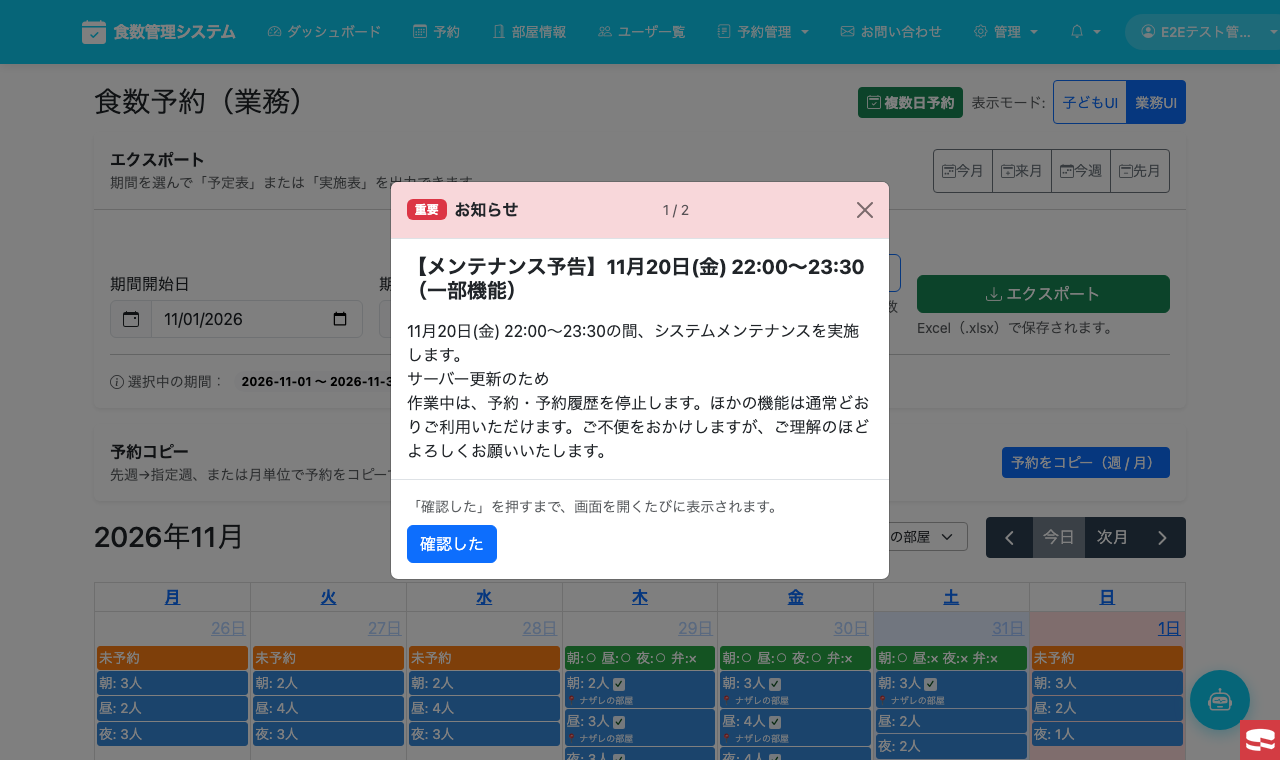
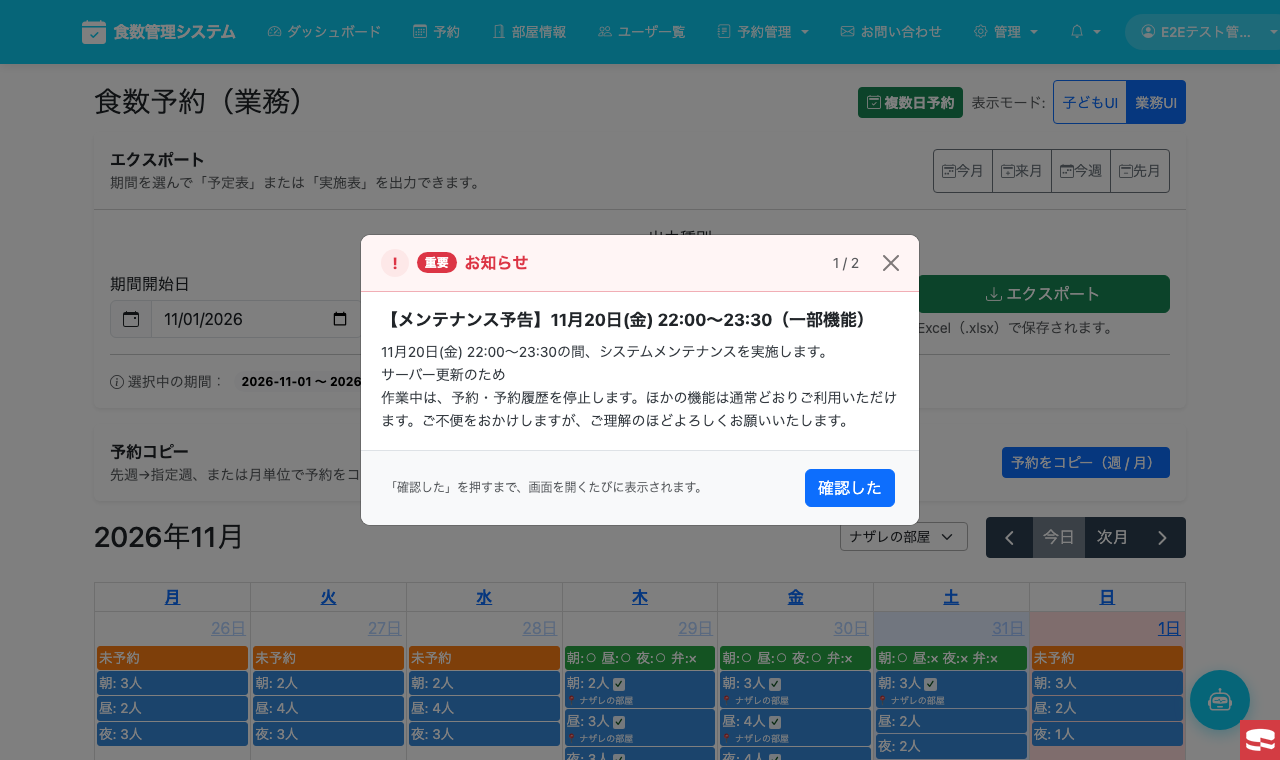
fix: お知らせのモーダルの見た目を画面イメージ（Figma）に合わせる
- 幅を560pxに、ヘッダーに「!」アイコンと赤みの背景、件数は右寄せ
- フッターは PC で注記を左・ボタンを右、スマホでボタンを全幅
- 本文・タイトルの大きさと行間を揃える
- PR 用のスクリーンショットを撮り直す

Refs #1013

Changed region(s): [[0.2812, 0.2421, 0.7188, 0.7868]]

diff --git a/src_web/kamaho-shokusu/templates/layout/default.php b/src_web/kamaho-shokusu/templates/layout/default.php
@@ -298,20 +298,38 @@ $recentNotifications     = $recentNotifications ?? [];
 
 <?php if ($user && !$isModal): ?>
 <?php /* お知らせのモーダル表示（i_modal=1 の掲載中のもの）。「確認した」を押すまで毎回出す。既読はブラウザごと */ ?>
+<style>
+    /* 画面イメージ（Figma #1013）に合わせた寸法・色 */
+    #noticeModal .modal-dialog { --bs-modal-width: 560px; }
+    #noticeModal .modal-content { border-radius: 10px; overflow: hidden; }
+    #noticeModal .modal-header { padding: 14px 20px; background: #fff5f5; border-bottom: 1px solid #f1aeb5; }
+    #noticeModal .notice-modal-icon { width: 28px; height: 28px; border-radius: 50%; background: #fde8e8; color: #dc3545; font-weight: 700; display: inline-flex; align-items: center; justify-content: center; }
+    #noticeModal .modal-body { padding: 18px 20px; }
+    #noticeModal #noticeModalTitle { font-size: 17px; font-weight: 700; margin-bottom: 10px; }
+    #noticeModal #noticeModalBody { font-size: 14px; line-height: 1.65; color: #343a40; white-space: pre-line; }
+    #noticeModal .modal-footer { padding: 14px 20px; background: #f8f9fa; justify-content: space-between; flex-wrap: nowrap; gap: 10px; }
+    #noticeModal .modal-footer small { font-size: 12px; }
+    @media (max-width: 575.98px) {
+        #noticeModal #noticeModalTitle { font-size: 15px; }
+        #noticeModal .modal-footer { flex-direction: column; align-items: stretch; }
+        #noticeModal .modal-footer .btn { width: 100%; }
+    }
+</style>
 <div class="modal fade" id="noticeModal" tabindex="-1" aria-labelledby="noticeModalTitle" aria-hidden="true" role="alertdialog" aria-modal="true">
     <div class="modal-dialog modal-dialog-centered">
         <div class="modal-content">
-            <div class="modal-header" id="noticeModalHeader">
-                <span class="badge text-bg-danger me-2 d-none" id="noticeModalHigh">重要</span>
-                <span class="fw-bold">お知らせ</span>
-                <span class="ms-auto me-3 small text-muted d-none" id="noticeModalCount"></span>
-                <button type="button" class="btn-close" data-bs-dismiss="modal" aria-label="閉じる"></button>
+            <div class="modal-header align-items-center gap-2" id="noticeModalHeader">
+                <span class="notice-modal-icon" aria-hidden="true">!</span>
+                <span class="badge rounded-pill text-bg-danger d-none" id="noticeModalHigh">重要</span>
+                <span class="fw-bold text-danger fs-6">お知らせ</span>
+                <span class="ms-auto small text-muted d-none" id="noticeModalCount"></span>
+                <button type="button" class="btn-close ms-2" data-bs-dismiss="modal" aria-label="閉じる"></button>
             </div>
             <div class="modal-body">
-                <h5 class="fw-bold mb-3" id="noticeModalTitle"></h5>
-                <div id="noticeModalBody" style="white-space:pre-line;"></div>
+                <h5 id="noticeModalTitle"></h5>
+                <div id="noticeModalBody"></div>
             </div>
-            <div class="modal-footer justify-content-between">
+            <div class="modal-footer">
                 <small class="text-muted">「確認した」を押すまで、画面を開くたびに表示されます。</small>
                 <button type="button" class="btn btn-primary" id="noticeModalAck">確認した</button>
             </div>
@@ -346,7 +364,6 @@ $recentNotifications     = $recentNotifications ?? [];
                     $('noticeModalTitle').textContent = n.title;
                     $('noticeModalBody').textContent = n.body || '';
                     $('noticeModalHigh').classList.toggle('d-none', !n.high);
-                    $('noticeModalHeader').classList.toggle('bg-danger-subtle', !!n.high);
                     $('noticeModalCount').textContent = (i + 1) + ' / ' + queue.length;
                     $('noticeModalCount').classList.toggle('d-none', queue.length < 2);
                     modal.show();
